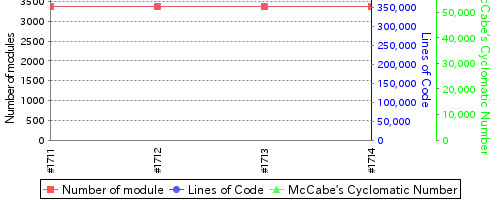
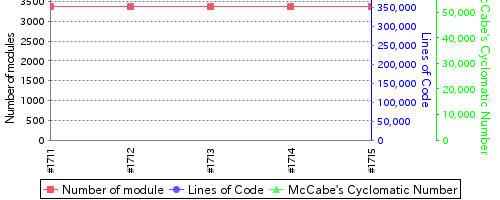
update report

diff --git a/index.md b/index.md
@@ -2,7 +2,7 @@
 layout: default
 ---
 # Jenkins CI report For HRG
-## Build and test report (2015/07/01 13:30:08)
+## Build and test report (2015/07/01 14:27:20)
 ### Build Status
 ___
 ![Build Status](http://jenkinshrg.github.io/images/badge.svg)
@@ -37,6 +37,7 @@ UNSTABLE
   
 |Status|Time|Duration|Changes|Build|Test|Note|
 |---|---|---|---|---|---|---|
+|![Jenkins Icon](http://jenkinshrg.github.io/images/24x24/yellow.png)UNSTABLE|2015/07/01 14:00|27 min.||||STOP NORMAL|
 |![Jenkins Icon](http://jenkinshrg.github.io/images/24x24/yellow.png)UNSTABLE|2015/07/01 13:01|28 min.|[CHANGES](https://drive.google.com/file/d/0B54sHwaxmuM4M0Y5Wmp5YlpWd00/view?usp=drivesdk) |[BUILD](https://drive.google.com/file/d/0B54sHwaxmuM4ZFYwRmFkLUFXbTA/view?usp=drivesdk) |[CONSOLE](https://drive.google.com/file/d/0B54sHwaxmuM4RGt1dk5IcGxiaXc/view?usp=drivesdk) [IMAGE](https://drive.google.com/file/d/0B54sHwaxmuM4V19Xb3lSRkFhQWM/edit?usp=drivesdk) [VIDEO](https://drive.google.com/file/d/0B54sHwaxmuM4bEFIR19Da2FLWWc/edit?usp=drivesdk) |STOP RED|
 |![Jenkins Icon](http://jenkinshrg.github.io/images/24x24/yellow.png)UNSTABLE|2015/07/01 12:00|61 min.||[BUILD](https://drive.google.com/file/d/0B54sHwaxmuM4dmdiVDE4U0I0Ums/view?usp=drivesdk) |[CONSOLE](https://drive.google.com/file/d/0B54sHwaxmuM4QTZybHZaMDRnanM/view?usp=drivesdk) [IMAGE](https://drive.google.com/file/d/0B54sHwaxmuM4VktCUDRCLWQwMVU/edit?usp=drivesdk) [VIDEO](https://drive.google.com/file/d/0B54sHwaxmuM4NDNTNVpSWEZJemM/edit?usp=drivesdk) |STOP NORMAL|
 |![Jenkins Icon](http://jenkinshrg.github.io/images/24x24/yellow.png)UNSTABLE|2015/07/01 11:12|28 min.||[BUILD](https://drive.google.com/file/d/0B54sHwaxmuM4dGdtSDdGcWhZRjQ/view?usp=drivesdk) |[CONSOLE](https://drive.google.com/file/d/0B54sHwaxmuM4NXk3OHRzendzbWs/view?usp=drivesdk) [IMAGE](https://drive.google.com/file/d/0B54sHwaxmuM4T1g4djFnOGNieFU/edit?usp=drivesdk) [VIDEO](https://drive.google.com/file/d/0B54sHwaxmuM4Ukc3SnR4aWRmeHc/edit?usp=drivesdk) |STOP NORMAL|
@@ -136,4 +137,3 @@ UNSTABLE
 |![Jenkins Icon](http://jenkinshrg.github.io/images/24x24/yellow.png)UNSTABLE|2015/06/26 20:00|13 min.||[BUILD](https://drive.google.com/file/d/0B54sHwaxmuM4bDNaekVHVFZ3b1k/view?usp=drivesdk) |[CONSOLE](https://drive.google.com/file/d/0B54sHwaxmuM4U1gzUWFpLXh6Zmc/view?usp=drivesdk) [IMAGE](https://drive.google.com/file/d/0B54sHwaxmuM4czRjeElNMGIzUW8/edit?usp=drivesdk) [VIDEO](https://drive.google.com/file/d/0B54sHwaxmuM4X0Z0TjFWRVpWNFE/edit?usp=drivesdk) |STOP NORMAL|
 |![Jenkins Icon](http://jenkinshrg.github.io/images/24x24/yellow.png)UNSTABLE|2015/06/26 19:00|13 min.||[BUILD](https://drive.google.com/file/d/0B54sHwaxmuM4SnBLUDlrUEhIcEk/view?usp=drivesdk) |[CONSOLE](https://drive.google.com/file/d/0B54sHwaxmuM4TXBfTzdGaGF3TzQ/view?usp=drivesdk) [IMAGE](https://drive.google.com/file/d/0B54sHwaxmuM4QjFQdmplM0ZLS0U/edit?usp=drivesdk) [VIDEO](https://drive.google.com/file/d/0B54sHwaxmuM4Qm5jbWM0cU5ER1k/edit?usp=drivesdk) |STOP NORMAL|
 |![Jenkins Icon](http://jenkinshrg.github.io/images/24x24/yellow.png)UNSTABLE|2015/06/26 18:00|13 min.||[BUILD](https://drive.google.com/file/d/0B54sHwaxmuM4bV9wRFN1ajgybU0/view?usp=drivesdk) |[CONSOLE](https://drive.google.com/file/d/0B54sHwaxmuM4VVl0NXFEc285czg/view?usp=drivesdk) [IMAGE](https://drive.google.com/file/d/0B54sHwaxmuM4OWs5VS1Ea0NYMkE/edit?usp=drivesdk) [VIDEO](https://drive.google.com/file/d/0B54sHwaxmuM4MzhxX2llc2xGaUE/edit?usp=drivesdk) |STOP NORMAL|
-|![Jenkins Icon](http://jenkinshrg.github.io/images/24x24/yellow.png)UNSTABLE|2015/06/26 17:00|13 min.||[BUILD](https://drive.google.com/file/d/0B54sHwaxmuM4U2VHZXBFUUN4M2M/view?usp=drivesdk) |[CONSOLE](https://drive.google.com/file/d/0B54sHwaxmuM4VWlsSmRpc3Z5NHM/view?usp=drivesdk) [IMAGE](https://drive.google.com/file/d/0B54sHwaxmuM4UFRvelpXNnBXRTA/edit?usp=drivesdk) [VIDEO](https://drive.google.com/file/d/0B54sHwaxmuM4QnMyajlHQmNPSmc/edit?usp=drivesdk) |STOP RED|
